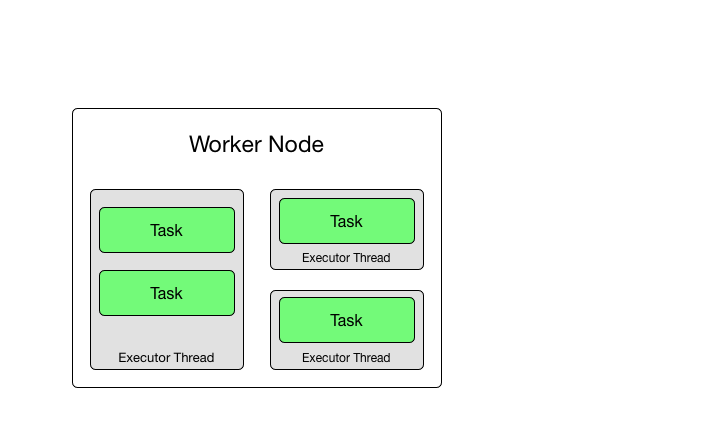
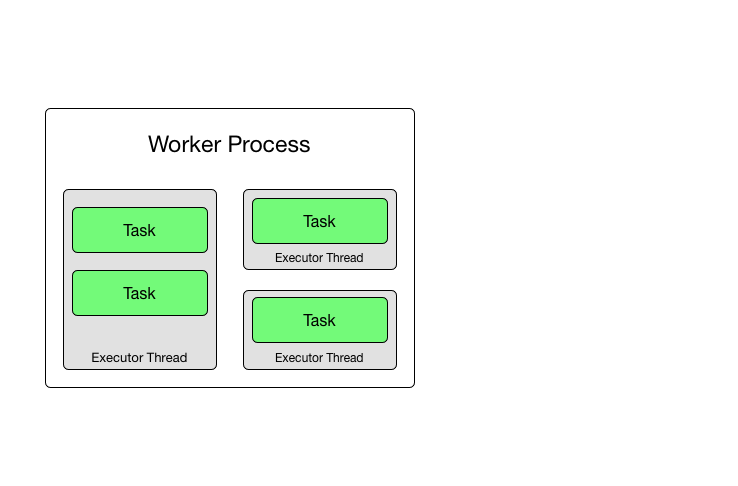
adding best practices and design decisions

diff --git a/index.html b/index.html
@@ -75,8 +75,8 @@
 						<li><span>Storm Concepts &amp; Components</span></li>
 						<li><span>Design Principles</span></li>
 						<li><span>Best Practices &amp; Lessons Learned</span></li>
-						<li><span>Comparison</span></li>
-						<li><span>Practical Examples</span></li>
+						<li><span>Alternatives &amp; Comparisons</span></li>
+						<!-- <li><span>Practical Examples</span></li> -->
 					</ul>
 				</section>
 
@@ -367,59 +367,231 @@ public class DoubleAndTripleBolt extends BaseRichBolt {
 					<section>
 						<h2>Apache Storm Infrastructure</h2>
 						<div class="left-50-slide">
-							...Nodes (Master &amp; Worker)<br/>
-							...Apache Zookeeper<br/>
-							...IMG Zookeeper Node --<br/>
+							<table>
+								<thead>
+									<tr>
+										<th colspan="2">Storm Architecture Components</th>
+									</tr>
+								</thead>
+								<tbody>
+									<tr>
+										<td><span class="fragment" data-fragment-index="1">Nimbus</span></td>
+										<td><span class="fragment" data-fragment-index="1">Master controller</span></td>
+									</tr>
+									<tr>
+										<td><span class="fragment" data-fragment-index="2">Supervisor</span></td>
+										<td><span class="fragment" data-fragment-index="2">Manages worker processes</span></td>
+									</tr>
+									<tr>
+										<td><span class="fragment" data-fragment-index="3">Worker</span></td>
+										<td><span class="fragment" data-fragment-index="3">JVM Process with multiple threads</span></td>
+									</tr>
+									<tr>
+										<td><span class="fragment" data-fragment-index="4">Zookeeper</span></td>
+										<td><span class="fragment" data-fragment-index="4">Manages cluster of supervisors and holds topology state</span></td>
+									</tr>
+								</tbody>
+							</table>
 						</div>
 						<div class="right-50-slide">
-							<img src="../images/apache-storm-architecture.png"/>
+							<img src="../images/apache-storm-architecture.png" class="no-border"/>
 						</div>
 						<div class="clear"></div>
 					</section>
 
 					<section>
-						<h2>Nodes</h2>
-						<p>
-							Master - Daemon called Nimbus<br/>
-							Worker - Daemon called Supervisor<br/>
+						<h2>What are "Nodes"</h2>
+						<p>Nodes are containers, physical or virtual servers </p>
+						<ul>
+							<li><span>Master Node &ndash; Runs a daemon called "Nimbus"</span>
+								<ul>
+									<li><span>Nimbus is responsible for distributing code around the cluster, assigning tasks to machines, and monitoring for failures</span></li>
+									<li><span>Often runs Storm UI</span></li>
+								</ul>
+							</li>
+							<li><span>Worker Nodes &ndash; Daemon called "Supervisor"</span>
+								<ul>
+									<li><span>Listens for assigned work, starts and stops worker processes as necessary based on assignments from Nimbus</span></li>
+									<li><span>Consists of 1..n JVM worker processes</span></li>
+								</ul>
+							</li>
+						</ul>
+					</section>
+
+					<section>
+						<h2>Nimbus</h2>
+						<p></p>
+						<ul>
+							<li><span>Distributes code around Storm cluster</span>
+								<ul>
+									<li><span>Handles topology deployments</span></li>
+								</ul>
+							</li>
+							<li><span>Assigns tasks to Supervisors</span></li>
+							<li><span>Failure monitor</span></li>
+							<li><span>Stateless and fail-safe</span>
+								<ul>
+									<li><span>Storm 1.0 release adds HA Nimbus</span></li>
+								</ul>
+							</li>
+						</ul>
+					</section>
+
+					<section>
+						<h2>Zookeeper</h2>
+						<p>A centralized service for maintaining configuration information, naming, providing distributed synchronization, and providing group services.</p>
+						<div class="left-70-slide">
+							<ul>
+								<li><span>Apache Project used by many OSS projects and companies (Fume, Elastic, Box, Rackspace, etc)</span></li>
+								<li><span>Manages cluster of supervisors</span></li>
+								<li><span>Coordinate communication between Nimbus and Supervisors</span></li>
+								<li><span>Transparent to the topology solution</span></li>
+								<li><span>Runs in a n+1 cluster (typically 3)</span></li>
+								<li><span>Manages state for in-process work</span></li>
+							</ul>
+						</div>
+						<div class="right-30-slide center-contents">
+							<img src="../images/zookeeper-logo.jpg" alt="Zookeeper Logo" class="no-border"/>
+						</div>
+						<div class="clear"></div>
+					</section>
+
+					<section>
+						<h2>Supervisors &amp; Workers</h2>
+						<div class="left-50-slide">
+							<p>A node in the Storm architecture that manages workers for the topology.</p>
+							<ul>
+								<li><span>Parallelization with additional workers</span>
+									<ul>
+										<li><span>Parallelization is declarative using "hints"</span></li>
+									</ul>
+								</li>
+								<li><span>Worker is a single JVM process</span></li>
+								<li><span>Workers execute "tasks" (Spouts or Bolts)</span></li>
+								<li><span>Each worker spawns threads for tasks</span></li>
+							</ul>
+						</div>
+						<div class="right-50-slide">
+							<img src="../images/supervisor-diagram.png" class="no-border"/>
+						</div>
+						<div class="clear"></div>
+					</section>
+
+					<section>
+						<h2>Parallelism</h2>
+						<div class="left-50-slide">
+							<p>Parallel processing is declarative and takes explicit values and hints in order to efficiently manage the required load</p>
+							<ul style="font-size:0.8em;">
+								<li><span>Worker count is explicit: <code>config.setNumWorkers(<span style="color:#ff0000;">2</span>);</code></code></span></li>
+								<li><span>Executors are hints <code>topologyBuilder.setSpout("blue-spout", new BlueSpout(), <span style="color:#ff0000;">3</span>);</code></span></li>
+								<li><span>Tasks are hints <code>setNumbTasks(<span style="color:#ff0000;">4</span>);</code></span></li>
+							</ul>
+						</div>
+						<div class="right-50-slide"><pre><code data-trim class="java" style="min-height:35em;">
+Config conf = new Config();
+conf.setNumWorkers(2);
+
+topologyBuilder.setSpout("blue-spout", new BlueSpout(), 2);
+
+topologyBuilder.setBolt("green-bolt", new GreenBolt(), 2)
+               .setNumTasks(4)
+               .shuffleGrouping("blue-spout");
+
+topologyBuilder.setBolt("yellow-bolt", new YellowBolt(), 6)
+               .shuffleGrouping("green-bolt");
+
+StormSubmitter.submitTopology(
+        "mytopology",
+        conf,
+        topologyBuilder.createTopology()
+    );
+						</code></pre>
 							
-						</p>
+						</div>
+						<div class="clear"></div>
 					</section>
 
 				</section>
 
+			<section alt="Design Principles">
+				<section>
+						<h2>Design Principles</h2>
+						<p>Determine if the solution needs to process:</p>
+						<table class="descriptions">
+							<thead>
+								<tr>
+									<td>Requirement</td>
+									<td>Description</td>
+									<td>Notes</td>
+								</tr>
+							</thead>
+							<tbody>
+								<tr>
+									<td>Exactly Once</td>
+									<td>Tuples are guaranteed to be processed once</td>
+									<td>Difficult, requires state</td>
+								</tr>
+								<tr>
+									<td>At-most Once</td>
+									<td>Not guaranteed to be processed</td>
+									<td>Fast moving data where failures are acceptable</td>
+								</tr>
+								<tr>
+									<td>At-least Once</td>
+									<td>Tuples can be re-played to handle failures</td>
+									<td>Reliable data source required</td>
+								</tr>
+							</tbody>
+						</table>
+					</section>
 
-				<section alt="Design Principles">
-					<h2>Design Principles</h2>
-					<p>
-						...Fault tolerant<br/>
-						...Durable message source<br/>
-					</p>
+					<section>
+						<h2>Design Considerations</h2>
+						<ul>
+							<li><span>Use immutable objects and data containers where possible</span></li>
+							<li><span>Treat bolts as lambda-calculus Functions()</span>
+								<ul>
+									<li><span>Setup topology to be a monad &ndash; A structure that represents computations defined as sequences of steps</span></li>
+									<li><span>Strive for "Pure Functions" &ndash; Returns the same value given the same arguments regardless of the context</span></li>
+								</ul>
+							</li>
+							<li><span>Use "tick" tuples for monitoring &ndash; scheduled synthetic tuples sent to bolts</span>
+								<ul>
+									<li><span>Generate synthetic tuples in addition to ticks for end-to-end metrics</span></li>
+								</ul>
+							</li>
+						</ul>
+					</section>
 				</section>
-
 
 
 				<section alt="Best Practices">
 					<section>
-						<h2>Best Practices &amp; Lessons Learned</h2>
-						<p>
-							...Immutability and carry state<br/>
-							......Keep all processes stateless and share-nothing; store state (with other persistent data) in a  backing service
-							...In-flight encryption difficult, used overrode using customizations to the bolt<br/>
-							...always plan for serialization<br/> (use @Functional)
-						</p>
+						<h2>Lessons Learned</h2>
+						<ul>
+							<li><span>Carry state through topology, async store state</span></li>
+							<li><span>Do not keep application state in tasks</span></li>
+							<li><span>Encryption can be done in bolts</span></li>
+						</ul>
 					</section>
 					<section>
 						<h2>Gotchas</h2>
-						<p>
-						</p>
+						<ul>
+							<li><span>Plan for serialization</span>
+								<ul>
+									<li><span>Use Java8 @Functional as a SerializableFactory to create new instances of an object rather than serialized objects</span></li>
+								</ul>
+							</li>
+							<li><span>Practice deployments via command-line</span></li>
+							<li><span>Use Storm UI</span></li>
+						</ul>
 					</section>
 
 				</section>
 
 
-				<section alt="Comparisons">
-					<h2>Comparisons</h2>
+				<section alt="Alternatives &amp; Comparisons">
+					<h2>Alternatives &amp; Comparisons</h2>
 					<p>
 						(most are batch based...micro-batched) <br/>
 						...Trident<br/>
@@ -427,22 +599,6 @@ public class DoubleAndTripleBolt extends BaseRichBolt {
 						...AWS Kinesis Streams<br/>
 						...Apache Samza<br/>
 					</p>
-				</section>
-
-				<section alt="Examples">
-					<section>
-						<h2>Simple Example</h2>
-						<p>
-
-						</p>
-					</section>
-
-					<section alt="Complex Example">
-						<h2>Complex Example</h2>
-						<p>
-
-						</p>
-					</section>
 				</section>
 
 				<section>

diff --git a/css/theme/dev9.css b/css/theme/dev9.css
@@ -64,6 +64,8 @@ li {
     font-style: italic !important; }
   li li {
     font-size: 0.80em !important; }
+    li li li {
+      font-size: 0.8em !important; }
 
 html.cover-page body {
   background: url("../../images/cover-background.svg");
@@ -171,6 +173,13 @@ div.center-contents {
 .reveal blockquote p {
   margin: 0;
   padding-top: 10px; }
+
+table.descriptions thead {
+  font-weight: bold;
+  color: orange; }
+
+table.descriptions tbody {
+  color: #000; }
 
 /*********************************************
 * RevealCode Focus

diff --git a/css/theme/source/dev9.scss b/css/theme/source/dev9.scss
@@ -118,6 +118,10 @@ li {
 
 	li {
 		font-size: 0.80em !important;
+
+		li {
+			font-size: 0.8em !important;
+		}
 	}
 }
 
@@ -265,6 +269,17 @@ div.center-contents {
 	    padding-top:10px;
 	}
 
+}
+
+table.descriptions {
+	
+	thead {
+		font-weight: bold;
+		color: orange;
+	}
+	tbody {
+		color:#000;
+	}
 }
 
 /*********************************************
